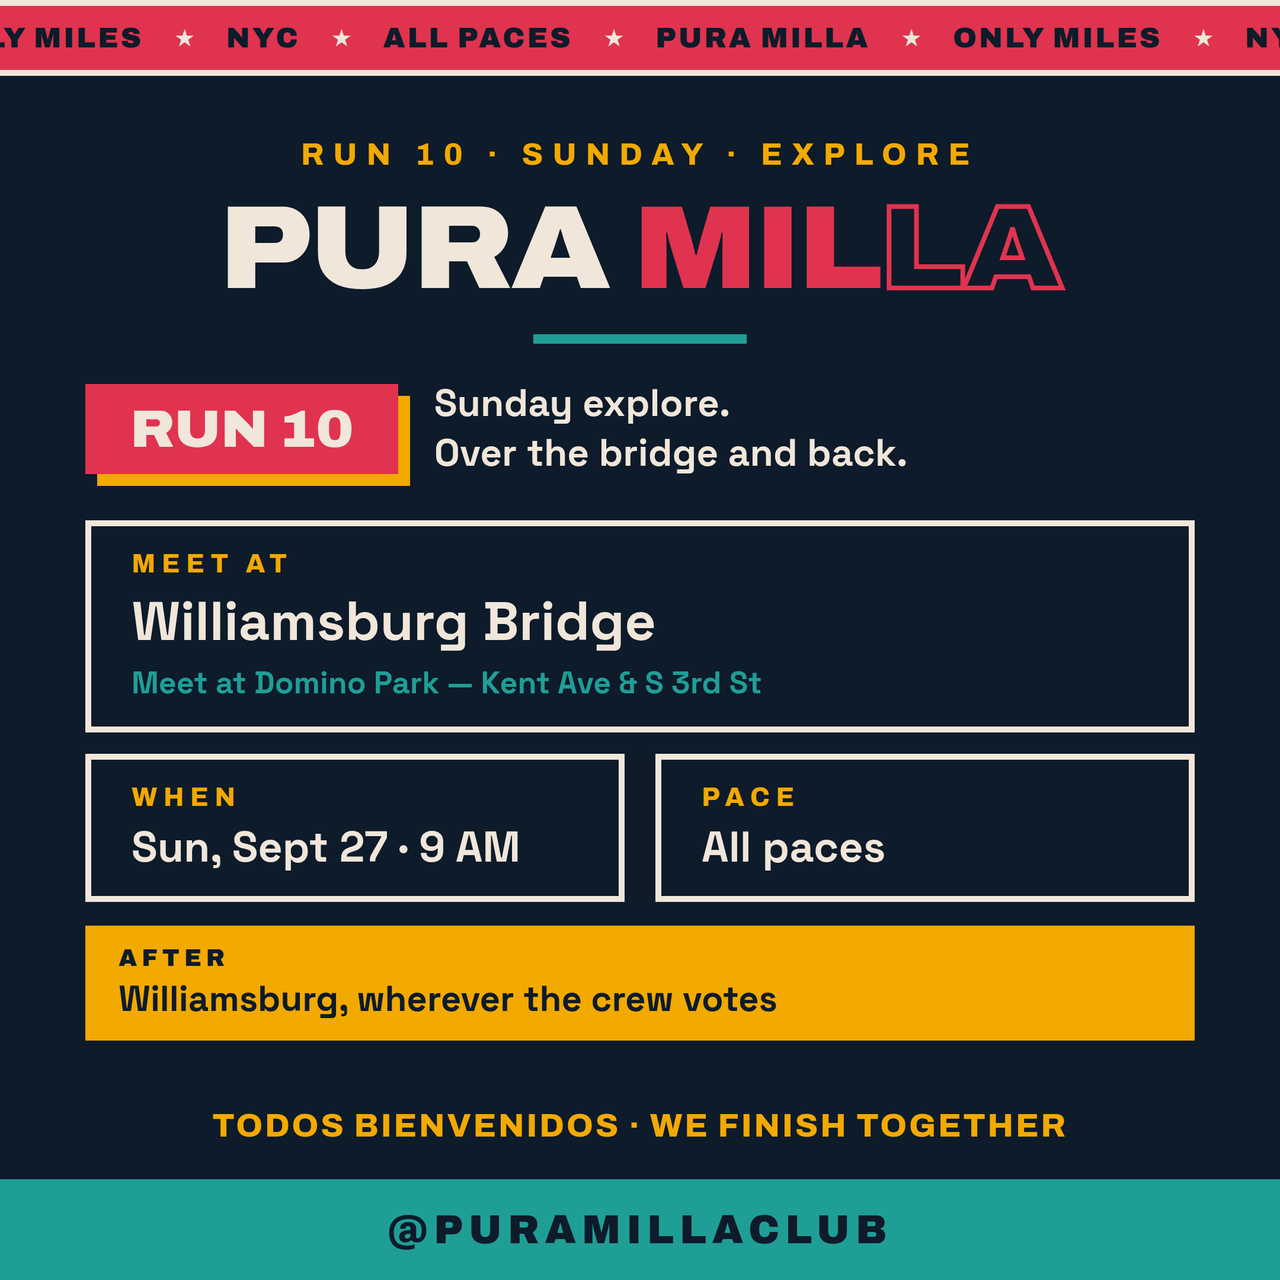
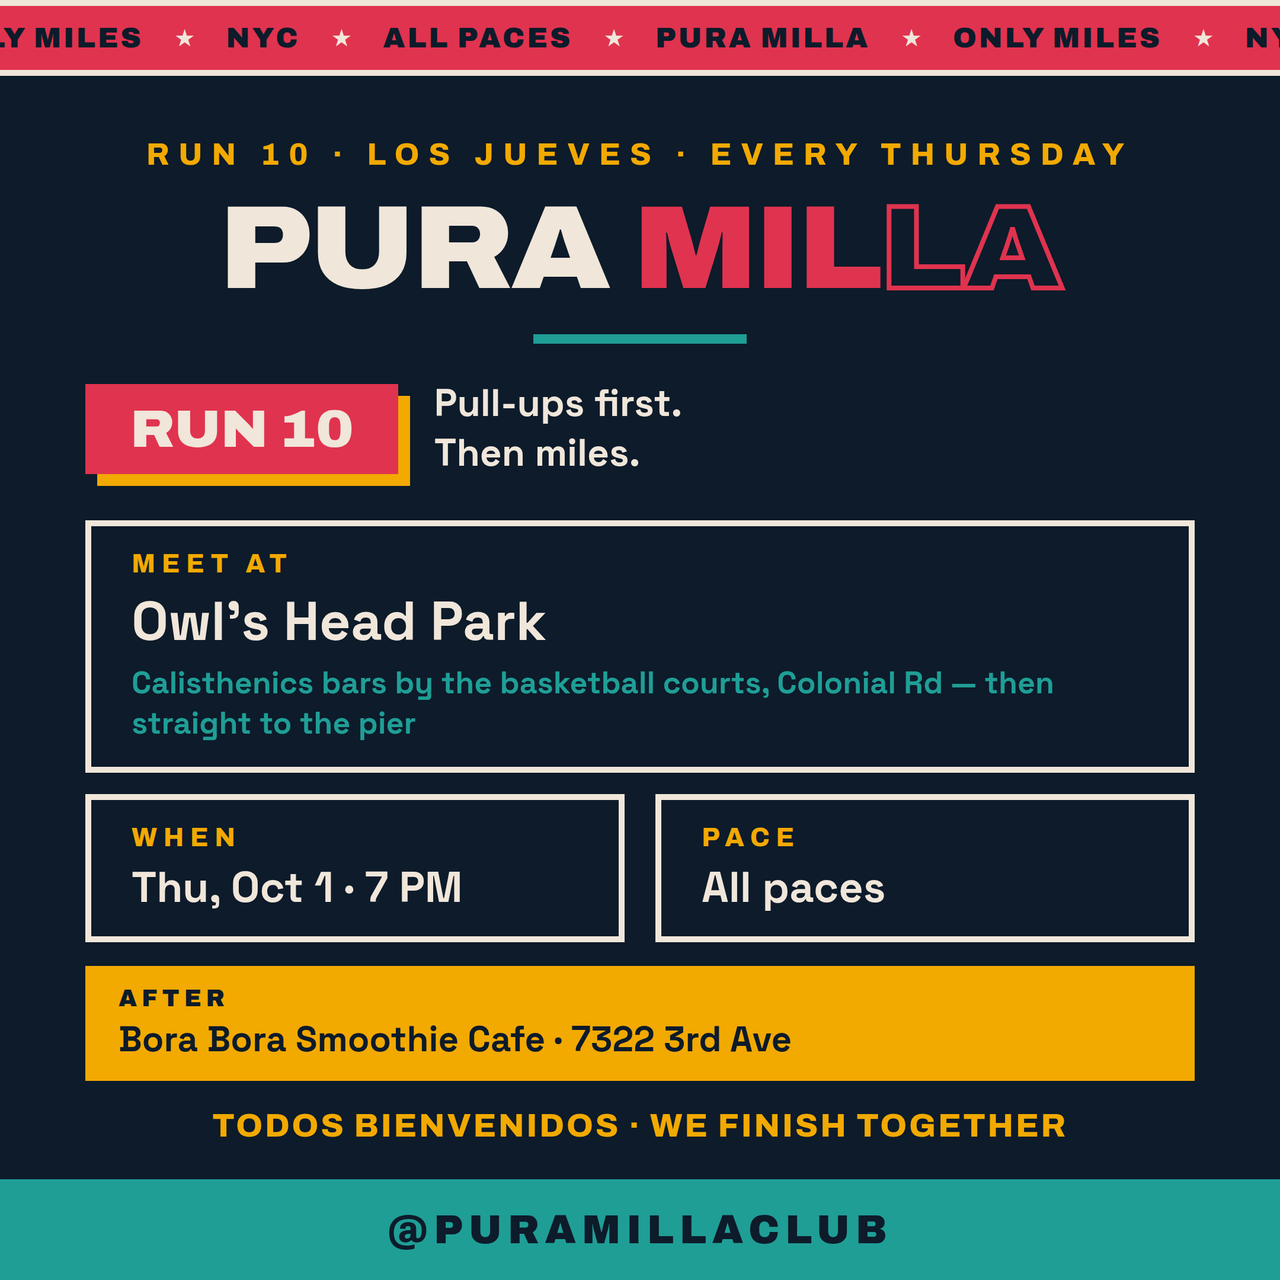
Relaunch schedule: weekly rhythm starts Sunday Sept 20
- Sunday explores now meet at Primark, City Point (445 Albee Square W,
  Fulton & Bond) before running the Brooklyn Bridge
- Tuesdays at Macombs Dam Park track, Thursdays at Owl's Head
  calisthenics bars into the pier, both confirmed as standing spots
- Schedule extended through Oct 11 and renumbered from Run 05; every
  poster is now generated from the same run data as the site so the
  two can't drift apart

Claude-Session: https://claude.ai/code/session_011QqYUh6PWa4vM9HAjx3P8r

diff --git a/index.html b/index.html
@@ -552,17 +552,20 @@
 <script>
 (function(){
   var RUNS=[
-    {n:'03',d:'2026-09-09',t:'7:00 PM',place:'Sunset Park',short:'Sunset Park, Brooklyn',meet:'Sunset Park — 41st St & 5th Ave entrance, Brooklyn',route:'Laps around the park — hop in on any lap',after:'Tacos at El Bronco, 37th & 5th — bring cash'},
-    {n:'04',d:'2026-09-13',t:'9:00 AM',place:'Prospect Park',short:'Prospect Park loop',meet:'Grand Army Plaza — under the arch',route:'The 3.35-mile loop, car-free. Cut it short any time',after:'Bagels on 7th Ave'},
-    {n:'05',d:'2026-09-15',t:'7:00 PM',place:'The Bronx',short:'Macombs Dam Park track, the Bronx',meet:'Macombs Dam Park track — 161st St & Jerome Ave, next to Yankee Stadium',route:'Laps on the track — hop in on any lap',after:'161st St'},
-    {n:'06',d:'2026-09-17',t:'7:00 PM',place:'Los Jueves',short:"Owl's Head Park — Los Jueves",meet:"Owl's Head Park — calisthenics bars by the basketball courts, Colonial Rd & 68th St",route:'Push-ups, pull-ups, core — then the pier and Shore Road, out and back',after:'Bora Bora Smoothie Cafe, 7322 3rd Ave — açaí, open till midnight'},
-    {n:'07',d:'2026-09-20',t:'9:00 AM',place:'Brooklyn Bridge',short:'Brooklyn Bridge',meet:'Brooklyn Bridge Park, Pier 1 — Old Fulton St',route:'Over the bridge and back',after:'Coffee in Dumbo'},
-    {n:'08',d:'2026-09-22',t:'7:00 PM',place:'The Bronx',short:'Macombs Dam Park track, the Bronx',meet:'Macombs Dam Park track — 161st St & Jerome Ave, next to Yankee Stadium',route:'Laps on the track — hop in on any lap',after:'161st St'},
-    {n:'09',d:'2026-09-24',t:'7:00 PM',place:'Los Jueves',short:"Owl's Head Park — Los Jueves",meet:"Owl's Head Park — calisthenics bars by the basketball courts, Colonial Rd & 68th St",route:'Push-ups, pull-ups, core — then the pier and Shore Road, out and back',after:'Bora Bora Smoothie Cafe, 7322 3rd Ave — açaí, open till midnight'},
-    {n:'10',d:'2026-09-27',t:'9:00 AM',place:'Williamsburg Bridge',short:'Williamsburg Bridge',meet:'Domino Park — Kent Ave & S 3rd St',route:'Over the bridge and back',after:'Williamsburg'},
-    {n:'11',d:'2026-09-29',t:'7:00 PM',place:'The Bronx',short:'Macombs Dam Park track, the Bronx',meet:'Macombs Dam Park track — 161st St & Jerome Ave, next to Yankee Stadium',route:'Laps on the track — hop in on any lap',after:'161st St'},
-    {n:'12',d:'2026-10-04',t:'9:00 AM',place:"Randall's Island",short:"Randall's Island",meet:'Details soon',route:'Three boroughs, one island',after:'TBA'},
-    {n:'13',d:'2026-10-11',t:'9:00 AM',place:'Van Cortlandt',short:'Van Cortlandt Park, the Bronx',meet:'Details soon',route:'The cross-country course',after:'TBA'}
+    {n:'01',d:'2026-08-30',t:'7:00 PM',place:'Astoria Park',short:'Astoria Park Track, Queens',meet:'Astoria Park Track, Queens',route:'Laps on the track',after:'31st St'},
+    {n:'02',d:'2026-09-01',t:'7:00 PM',place:'Astoria Park',short:'Astoria Park Track, Queens',meet:'Astoria Park Track, Queens',route:'Laps on the track',after:'31st St'},
+    {n:'03',d:'2026-09-09',t:'7:00 PM',place:'Sunset Park',short:'Sunset Park, Brooklyn',meet:'Sunset Park — 41st St & 5th Ave entrance, Brooklyn',route:'Laps around the park',after:'Tacos El Bronco, 37th & 5th'},
+    {n:'04',d:'2026-09-13',t:'9:00 AM',place:'Prospect Park',short:'Prospect Park loop',meet:'Grand Army Plaza — under the arch',route:'The 3.35-mile loop, car-free',after:'Bagels on 7th Ave'},
+    {n:'05',d:'2026-09-20',t:'9:00 AM',place:'Brooklyn Bridge',short:'Brooklyn Bridge',meet:'Primark at City Point',route:'Meet at Primark, jog to the bridge, over and back',after:'Coffee in Dumbo'},
+    {n:'06',d:'2026-09-22',t:'7:00 PM',place:'The Bronx',short:'Macombs Dam Park track, the Bronx',meet:'Macombs Dam Park Track',route:'Laps on the track — hop in on any lap',after:'161st St — pick the spot on the night'},
+    {n:'07',d:'2026-09-24',t:'7:00 PM',place:'Los Jueves',short:'Owl\'s Head Park — Los Jueves',meet:'Owl\'s Head Park',route:'Push-ups, pull-ups, core — then the pier and Shore Road',after:'Bora Bora Smoothie Cafe · 7322 3rd Ave'},
+    {n:'08',d:'2026-09-27',t:'9:00 AM',place:'Williamsburg Bridge',short:'Williamsburg Bridge',meet:'Domino Park',route:'Over the bridge and back',after:'Williamsburg'},
+    {n:'09',d:'2026-09-29',t:'7:00 PM',place:'The Bronx',short:'Macombs Dam Park track, the Bronx',meet:'Macombs Dam Park Track',route:'Laps on the track — hop in on any lap',after:'161st St — pick the spot on the night'},
+    {n:'10',d:'2026-10-01',t:'7:00 PM',place:'Los Jueves',short:'Owl\'s Head Park — Los Jueves',meet:'Owl\'s Head Park',route:'Push-ups, pull-ups, core — then the pier and Shore Road',after:'Bora Bora Smoothie Cafe · 7322 3rd Ave'},
+    {n:'11',d:'2026-10-04',t:'9:00 AM',place:'Randall\'s Island',short:'Randall\'s Island',meet:'Randall\'s Island',route:'Three boroughs, one island',after:'TBA'},
+    {n:'12',d:'2026-10-06',t:'7:00 PM',place:'The Bronx',short:'Macombs Dam Park track, the Bronx',meet:'Macombs Dam Park Track',route:'Laps on the track — hop in on any lap',after:'161st St — pick the spot on the night'},
+    {n:'13',d:'2026-10-08',t:'7:00 PM',place:'Los Jueves',short:'Owl\'s Head Park — Los Jueves',meet:'Owl\'s Head Park',route:'Push-ups, pull-ups, core — then the pier and Shore Road',after:'Bora Bora Smoothie Cafe · 7322 3rd Ave'},
+    {n:'14',d:'2026-10-11',t:'9:00 AM',place:'Van Cortlandt',short:'Van Cortlandt Park, the Bronx',meet:'Van Cortlandt Park',route:'The cross-country course',after:'TBA'}
   ];
   var DAYS=['Sunday','Monday','Tuesday','Wednesday','Thursday','Friday','Saturday'],MON=['Jan','Feb','Mar','Apr','May','June','July','Aug','Sept','Oct','Nov','Dec'];
   function parts(d){var a=d.split('-');return new Date(+a[0],+a[1]-1,+a[2]);}

diff --git a/posters/poster-run06.html b/posters/poster-run06.html
@@ -33,16 +33,16 @@ h1 .o{color:transparent;-webkit-text-stroke:4px var(--coral)}
 </style></head><body>
 <div class="ticker"><b>Pura Milla</b><i>★</i><b>Only Miles</b><i>★</i><b>NYC</b><i>★</i><b>All Paces</b><i>★</i><b>Pura Milla</b><i>★</i><b>Only Miles</b><i>★</i><b>NYC</b><i>★</i><b>All Paces</b><i>★</i></div>
 <div class="pad">
-  <div class="eyebrow">Run 06 · Los Jueves · Every Thursday</div>
+  <div class="eyebrow">Run 06 · Martes en el Bronx</div>
   <h1 class="disp"><span class="p">PURA</span> <span class="m">MIL<span class="o">LA</span></span></h1>
   <div class="rule"></div>
-  <div class="dist"><div class="badge disp">RUN 06</div><p>Pull-ups first.<br>Then miles.</p></div>
-  <div class="block"><div class="lbl">Meet at</div><div class="big">Owl's Head Park</div><div class="sub">Calisthenics bars by the courts, Colonial Rd &amp; 68th St — then the pier</div></div>
+  <div class="dist"><div class="badge disp">RUN 06</div><p>Tuesdays in the Bronx.<br>New borough. Same crew.</p></div>
+  <div class="block"><div class="lbl">Meet at</div><div class="big">Macombs Dam Park Track</div><div class="sub">161st St &amp; Jerome Ave — outside Yankee Stadium. Laps, hop in any lap</div></div>
   <div class="two">
-    <div class="block"><div class="lbl">When</div><div class="big xs">Thu, Sept 17 · 7 PM</div></div>
+    <div class="block"><div class="lbl">When</div><div class="big xs">Tue, Sept 22 · 7 PM</div></div>
     <div class="block"><div class="lbl">Pace</div><div class="big xs">All paces</div></div>
   </div>
-  <div class="taco"><div class="tl">After</div><div class="tb">Bora Bora Smoothie Cafe · 7322 3rd Ave — open till midnight</div></div>
+  <div class="taco"><div class="tl">After</div><div class="tb">161st St — pick the spot on the night</div></div>
   <div class="closing">Todos Bienvenidos · We Finish Together</div>
 </div>
 <div class="foot"><span>@puramillaclub</span></div>

diff --git a/posters/poster-run13.html b/posters/poster-run13.html
@@ -33,16 +33,16 @@ h1 .o{color:transparent;-webkit-text-stroke:4px var(--coral)}
 </style></head><body>
 <div class="ticker"><b>Pura Milla</b><i>★</i><b>Only Miles</b><i>★</i><b>NYC</b><i>★</i><b>All Paces</b><i>★</i><b>Pura Milla</b><i>★</i><b>Only Miles</b><i>★</i><b>NYC</b><i>★</i><b>All Paces</b><i>★</i></div>
 <div class="pad">
-  <div class="eyebrow">Run 09 · Martes en el Bronx</div>
+  <div class="eyebrow">Run 13 · Los Jueves · Every Thursday</div>
   <h1 class="disp"><span class="p">PURA</span> <span class="m">MIL<span class="o">LA</span></span></h1>
   <div class="rule"></div>
-  <div class="dist"><div class="badge disp">RUN 09</div><p>Tuesdays in the Bronx.<br>Week two. Bring someone.</p></div>
-  <div class="block"><div class="lbl">Meet at</div><div class="big">Macombs Dam Park Track</div><div class="sub">161st St &amp; Jerome Ave — outside Yankee Stadium. Laps, hop in any lap</div></div>
+  <div class="dist"><div class="badge disp">RUN 13</div><p>Pull-ups first.<br>Then miles.</p></div>
+  <div class="block"><div class="lbl">Meet at</div><div class="big">Owl's Head Park</div><div class="sub">Calisthenics bars by the basketball courts, Colonial Rd — then straight to the pier</div></div>
   <div class="two">
-    <div class="block"><div class="lbl">When</div><div class="big xs">Tue, Sept 29 · 7 PM</div></div>
+    <div class="block"><div class="lbl">When</div><div class="big xs">Thu, Oct 8 · 7 PM</div></div>
     <div class="block"><div class="lbl">Pace</div><div class="big xs">All paces</div></div>
   </div>
-  <div class="taco"><div class="tl">After</div><div class="tb">161st St — pick the spot on the night</div></div>
+  <div class="taco"><div class="tl">After</div><div class="tb">Bora Bora Smoothie Cafe · 7322 3rd Ave</div></div>
   <div class="closing">Todos Bienvenidos · We Finish Together</div>
 </div>
 <div class="foot"><span>@puramillaclub</span></div>

diff --git a/posters/poster-run05.html b/posters/poster-run05.html
@@ -33,16 +33,16 @@ h1 .o{color:transparent;-webkit-text-stroke:4px var(--coral)}
 </style></head><body>
 <div class="ticker"><b>Pura Milla</b><i>★</i><b>Only Miles</b><i>★</i><b>NYC</b><i>★</i><b>All Paces</b><i>★</i><b>Pura Milla</b><i>★</i><b>Only Miles</b><i>★</i><b>NYC</b><i>★</i><b>All Paces</b><i>★</i></div>
 <div class="pad">
-  <div class="eyebrow">Run 05 · Martes en el Bronx</div>
+  <div class="eyebrow">Run 05 · Sunday · Explore</div>
   <h1 class="disp"><span class="p">PURA</span> <span class="m">MIL<span class="o">LA</span></span></h1>
   <div class="rule"></div>
-  <div class="dist"><div class="badge disp">RUN 05</div><p>Tuesdays in the Bronx.<br>New borough. Same crew.</p></div>
-  <div class="block"><div class="lbl">Meet at</div><div class="big">Macombs Dam Park Track</div><div class="sub">161st St &amp; Jerome Ave — next to Yankee Stadium. Laps, hop in any lap</div></div>
+  <div class="dist"><div class="badge disp">RUN 05</div><p>Sunday explore.<br>Over the bridge and back.</p></div>
+  <div class="block"><div class="lbl">Meet at</div><div class="big">Primark at City Point</div><div class="sub">445 Albee Square W, Fulton St &amp; Bond St — then we run the bridge</div></div>
   <div class="two">
-    <div class="block"><div class="lbl">When</div><div class="big xs">Tue, Sept 15 · 7 PM</div></div>
+    <div class="block"><div class="lbl">When</div><div class="big xs">Sun, Sept 20 · 9 AM</div></div>
     <div class="block"><div class="lbl">Pace</div><div class="big xs">All paces</div></div>
   </div>
-  <div class="taco"><div class="tl">After</div><div class="tb">161st St — pick the spot on the night</div></div>
+  <div class="taco"><div class="tl">After</div><div class="tb">Coffee in Dumbo</div></div>
   <div class="closing">Todos Bienvenidos · We Finish Together</div>
 </div>
 <div class="foot"><span>@puramillaclub</span></div>

diff --git a/posters/poster-run12.html b/posters/poster-run12.html
@@ -33,16 +33,16 @@ h1 .o{color:transparent;-webkit-text-stroke:4px var(--coral)}
 </style></head><body>
 <div class="ticker"><b>Pura Milla</b><i>★</i><b>Only Miles</b><i>★</i><b>NYC</b><i>★</i><b>All Paces</b><i>★</i><b>Pura Milla</b><i>★</i><b>Only Miles</b><i>★</i><b>NYC</b><i>★</i><b>All Paces</b><i>★</i></div>
 <div class="pad">
-  <div class="eyebrow">Run 04 · Sunday · Explore</div>
+  <div class="eyebrow">Run 12 · Martes en el Bronx</div>
   <h1 class="disp"><span class="p">PURA</span> <span class="m">MIL<span class="o">LA</span></span></h1>
   <div class="rule"></div>
-  <div class="dist"><div class="badge disp">RUN 04</div><p>Sunday explore.<br>New route every week.</p></div>
-  <div class="block"><div class="lbl">Meet at</div><div class="big">Prospect Park</div><div class="sub">Grand Army Plaza, under the arch — the 3.35-mi loop, cut it short any time</div></div>
+  <div class="dist"><div class="badge disp">RUN 12</div><p>Tuesdays in the Bronx.<br>Month two. Still here.</p></div>
+  <div class="block"><div class="lbl">Meet at</div><div class="big">Macombs Dam Park Track</div><div class="sub">161st St &amp; Jerome Ave — outside Yankee Stadium. Laps, hop in any lap</div></div>
   <div class="two">
-    <div class="block"><div class="lbl">When</div><div class="big xs">Sun, Sept 13 · 9 AM</div></div>
+    <div class="block"><div class="lbl">When</div><div class="big xs">Tue, Oct 6 · 7 PM</div></div>
     <div class="block"><div class="lbl">Pace</div><div class="big xs">All paces</div></div>
   </div>
-  <div class="taco"><div class="tl">After</div><div class="tb">Bagels on 7th Ave</div></div>
+  <div class="taco"><div class="tl">After</div><div class="tb">161st St — pick the spot on the night</div></div>
   <div class="closing">Todos Bienvenidos · We Finish Together</div>
 </div>
 <div class="foot"><span>@puramillaclub</span></div>

diff --git a/posters/poster-run10.html b/posters/poster-run10.html
@@ -33,16 +33,16 @@ h1 .o{color:transparent;-webkit-text-stroke:4px var(--coral)}
 </style></head><body>
 <div class="ticker"><b>Pura Milla</b><i>★</i><b>Only Miles</b><i>★</i><b>NYC</b><i>★</i><b>All Paces</b><i>★</i><b>Pura Milla</b><i>★</i><b>Only Miles</b><i>★</i><b>NYC</b><i>★</i><b>All Paces</b><i>★</i></div>
 <div class="pad">
-  <div class="eyebrow">Run 10 · Sunday · Explore</div>
+  <div class="eyebrow">Run 10 · Los Jueves · Every Thursday</div>
   <h1 class="disp"><span class="p">PURA</span> <span class="m">MIL<span class="o">LA</span></span></h1>
   <div class="rule"></div>
-  <div class="dist"><div class="badge disp">RUN 10</div><p>Sunday explore.<br>Over the bridge and back.</p></div>
-  <div class="block"><div class="lbl">Meet at</div><div class="big">Williamsburg Bridge</div><div class="sub">Meet at Domino Park — Kent Ave &amp; S 3rd St</div></div>
+  <div class="dist"><div class="badge disp">RUN 10</div><p>Pull-ups first.<br>Then miles.</p></div>
+  <div class="block"><div class="lbl">Meet at</div><div class="big">Owl's Head Park</div><div class="sub">Calisthenics bars by the basketball courts, Colonial Rd — then straight to the pier</div></div>
   <div class="two">
-    <div class="block"><div class="lbl">When</div><div class="big xs">Sun, Sept 27 · 9 AM</div></div>
+    <div class="block"><div class="lbl">When</div><div class="big xs">Thu, Oct 1 · 7 PM</div></div>
     <div class="block"><div class="lbl">Pace</div><div class="big xs">All paces</div></div>
   </div>
-  <div class="taco"><div class="tl">After</div><div class="tb">Williamsburg, wherever the crew votes</div></div>
+  <div class="taco"><div class="tl">After</div><div class="tb">Bora Bora Smoothie Cafe · 7322 3rd Ave</div></div>
   <div class="closing">Todos Bienvenidos · We Finish Together</div>
 </div>
 <div class="foot"><span>@puramillaclub</span></div>

diff --git a/posters/poster-run14.html b/posters/poster-run14.html
@@ -33,16 +33,16 @@ h1 .o{color:transparent;-webkit-text-stroke:4px var(--coral)}
 </style></head><body>
 <div class="ticker"><b>Pura Milla</b><i>★</i><b>Only Miles</b><i>★</i><b>NYC</b><i>★</i><b>All Paces</b><i>★</i><b>Pura Milla</b><i>★</i><b>Only Miles</b><i>★</i><b>NYC</b><i>★</i><b>All Paces</b><i>★</i></div>
 <div class="pad">
-  <div class="eyebrow">Run 09 · Martes en el Bronx</div>
+  <div class="eyebrow">Run 14 · Sunday · Explore</div>
   <h1 class="disp"><span class="p">PURA</span> <span class="m">MIL<span class="o">LA</span></span></h1>
   <div class="rule"></div>
-  <div class="dist"><div class="badge disp">RUN 09</div><p>Tuesdays in the Bronx.<br>Week two. Bring someone.</p></div>
-  <div class="block"><div class="lbl">Meet at</div><div class="big">Macombs Dam Park Track</div><div class="sub">161st St &amp; Jerome Ave — outside Yankee Stadium. Laps, hop in any lap</div></div>
+  <div class="dist"><div class="badge disp">RUN 14</div><p>Sunday explore.<br>The course with the history.</p></div>
+  <div class="block"><div class="lbl">Meet at</div><div class="big">Van Cortlandt Park</div><div class="sub">Meetup point announced on the socials — the cross-country course</div></div>
   <div class="two">
-    <div class="block"><div class="lbl">When</div><div class="big xs">Tue, Sept 29 · 7 PM</div></div>
+    <div class="block"><div class="lbl">When</div><div class="big xs">Sun, Oct 11 · 9 AM</div></div>
     <div class="block"><div class="lbl">Pace</div><div class="big xs">All paces</div></div>
   </div>
-  <div class="taco"><div class="tl">After</div><div class="tb">161st St — pick the spot on the night</div></div>
+  <div class="taco"><div class="tl">After</div><div class="tb">TBA</div></div>
   <div class="closing">Todos Bienvenidos · We Finish Together</div>
 </div>
 <div class="foot"><span>@puramillaclub</span></div>

diff --git a/posters/poster-run11.html b/posters/poster-run11.html
@@ -33,16 +33,16 @@ h1 .o{color:transparent;-webkit-text-stroke:4px var(--coral)}
 </style></head><body>
 <div class="ticker"><b>Pura Milla</b><i>★</i><b>Only Miles</b><i>★</i><b>NYC</b><i>★</i><b>All Paces</b><i>★</i><b>Pura Milla</b><i>★</i><b>Only Miles</b><i>★</i><b>NYC</b><i>★</i><b>All Paces</b><i>★</i></div>
 <div class="pad">
-  <div class="eyebrow">Run 11 · Martes en el Bronx</div>
+  <div class="eyebrow">Run 11 · Sunday · Explore</div>
   <h1 class="disp"><span class="p">PURA</span> <span class="m">MIL<span class="o">LA</span></span></h1>
   <div class="rule"></div>
-  <div class="dist"><div class="badge disp">RUN 11</div><p>Tuesdays in the Bronx.<br>Last one of the month.</p></div>
-  <div class="block"><div class="lbl">Meet at</div><div class="big">Macombs Dam Park Track</div><div class="sub">161st St &amp; Jerome Ave — next to Yankee Stadium. Laps, hop in any lap</div></div>
+  <div class="dist"><div class="badge disp">RUN 11</div><p>Sunday explore.<br>Three boroughs, one island.</p></div>
+  <div class="block"><div class="lbl">Meet at</div><div class="big">Randall's Island</div><div class="sub">Meetup point announced on the socials — three boroughs, one island</div></div>
   <div class="two">
-    <div class="block"><div class="lbl">When</div><div class="big xs">Tue, Sept 29 · 7 PM</div></div>
+    <div class="block"><div class="lbl">When</div><div class="big xs">Sun, Oct 4 · 9 AM</div></div>
     <div class="block"><div class="lbl">Pace</div><div class="big xs">All paces</div></div>
   </div>
-  <div class="taco"><div class="tl">After</div><div class="tb">161st St — pick the spot on the night</div></div>
+  <div class="taco"><div class="tl">After</div><div class="tb">TBA</div></div>
   <div class="closing">Todos Bienvenidos · We Finish Together</div>
 </div>
 <div class="foot"><span>@puramillaclub</span></div>

diff --git a/posters/poster-run07.html b/posters/poster-run07.html
@@ -33,16 +33,16 @@ h1 .o{color:transparent;-webkit-text-stroke:4px var(--coral)}
 </style></head><body>
 <div class="ticker"><b>Pura Milla</b><i>★</i><b>Only Miles</b><i>★</i><b>NYC</b><i>★</i><b>All Paces</b><i>★</i><b>Pura Milla</b><i>★</i><b>Only Miles</b><i>★</i><b>NYC</b><i>★</i><b>All Paces</b><i>★</i></div>
 <div class="pad">
-  <div class="eyebrow">Run 07 · Sunday · Explore</div>
+  <div class="eyebrow">Run 07 · Los Jueves · Every Thursday</div>
   <h1 class="disp"><span class="p">PURA</span> <span class="m">MIL<span class="o">LA</span></span></h1>
   <div class="rule"></div>
-  <div class="dist"><div class="badge disp">RUN 07</div><p>Sunday explore.<br>Over the bridge and back.</p></div>
-  <div class="block"><div class="lbl">Meet at</div><div class="big">Brooklyn Bridge</div><div class="sub">Meet at Brooklyn Bridge Park, Pier 1 — Old Fulton St</div></div>
+  <div class="dist"><div class="badge disp">RUN 07</div><p>Pull-ups first.<br>Then miles.</p></div>
+  <div class="block"><div class="lbl">Meet at</div><div class="big">Owl's Head Park</div><div class="sub">Calisthenics bars by the basketball courts, Colonial Rd — then straight to the pier</div></div>
   <div class="two">
-    <div class="block"><div class="lbl">When</div><div class="big xs">Sun, Sept 20 · 9 AM</div></div>
+    <div class="block"><div class="lbl">When</div><div class="big xs">Thu, Sept 24 · 7 PM</div></div>
     <div class="block"><div class="lbl">Pace</div><div class="big xs">All paces</div></div>
   </div>
-  <div class="taco"><div class="tl">After</div><div class="tb">Coffee in Dumbo</div></div>
+  <div class="taco"><div class="tl">After</div><div class="tb">Bora Bora Smoothie Cafe · 7322 3rd Ave</div></div>
   <div class="closing">Todos Bienvenidos · We Finish Together</div>
 </div>
 <div class="foot"><span>@puramillaclub</span></div>

diff --git a/posters/poster-run08.html b/posters/poster-run08.html
@@ -33,16 +33,16 @@ h1 .o{color:transparent;-webkit-text-stroke:4px var(--coral)}
 </style></head><body>
 <div class="ticker"><b>Pura Milla</b><i>★</i><b>Only Miles</b><i>★</i><b>NYC</b><i>★</i><b>All Paces</b><i>★</i><b>Pura Milla</b><i>★</i><b>Only Miles</b><i>★</i><b>NYC</b><i>★</i><b>All Paces</b><i>★</i></div>
 <div class="pad">
-  <div class="eyebrow">Run 08 · Martes en el Bronx</div>
+  <div class="eyebrow">Run 08 · Sunday · Explore</div>
   <h1 class="disp"><span class="p">PURA</span> <span class="m">MIL<span class="o">LA</span></span></h1>
   <div class="rule"></div>
-  <div class="dist"><div class="badge disp">RUN 08</div><p>Tuesdays in the Bronx.<br>Week two. Bring someone.</p></div>
-  <div class="block"><div class="lbl">Meet at</div><div class="big">Macombs Dam Park Track</div><div class="sub">161st St &amp; Jerome Ave — next to Yankee Stadium. Laps, hop in any lap</div></div>
+  <div class="dist"><div class="badge disp">RUN 08</div><p>Sunday explore.<br>Over the bridge and back.</p></div>
+  <div class="block"><div class="lbl">Meet at</div><div class="big">Domino Park</div><div class="sub">Kent Ave &amp; S 3rd St — over the bridge and back</div></div>
   <div class="two">
-    <div class="block"><div class="lbl">When</div><div class="big xs">Tue, Sept 22 · 7 PM</div></div>
+    <div class="block"><div class="lbl">When</div><div class="big xs">Sun, Sept 27 · 9 AM</div></div>
     <div class="block"><div class="lbl">Pace</div><div class="big xs">All paces</div></div>
   </div>
-  <div class="taco"><div class="tl">After</div><div class="tb">161st St — pick the spot on the night</div></div>
+  <div class="taco"><div class="tl">After</div><div class="tb">Williamsburg</div></div>
   <div class="closing">Todos Bienvenidos · We Finish Together</div>
 </div>
 <div class="foot"><span>@puramillaclub</span></div>
